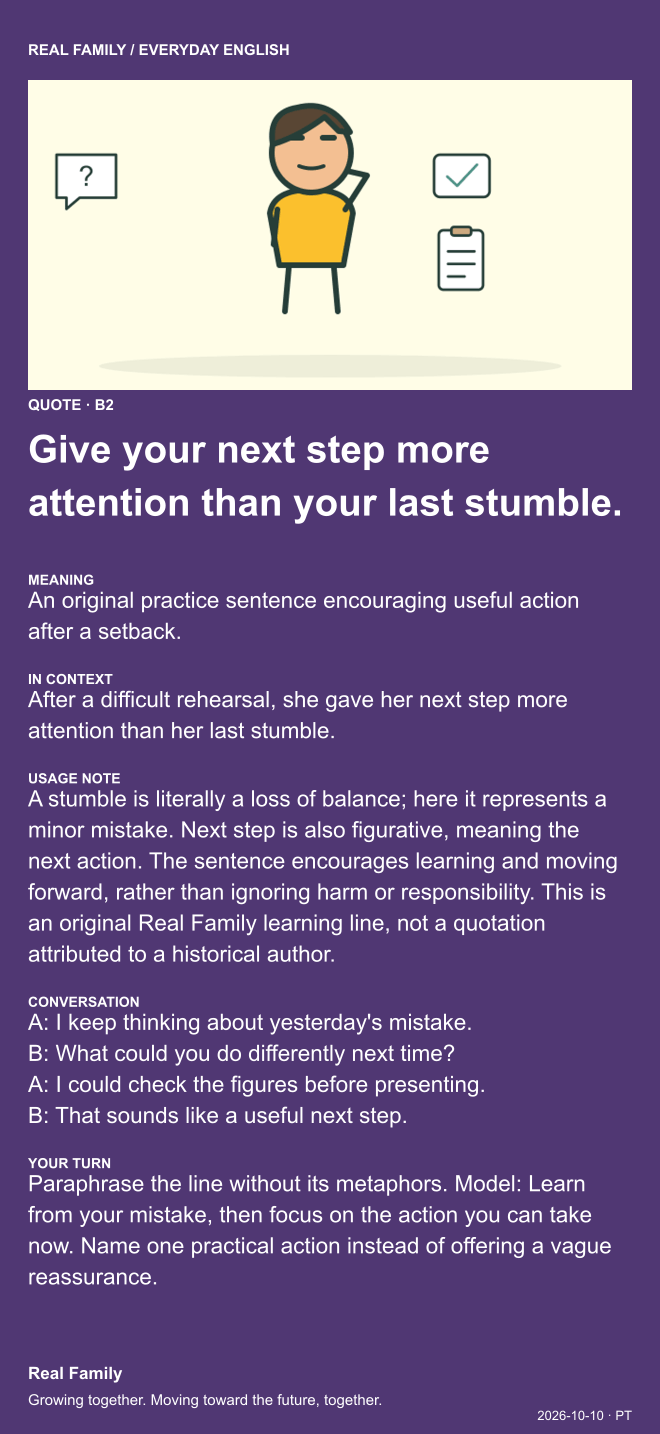
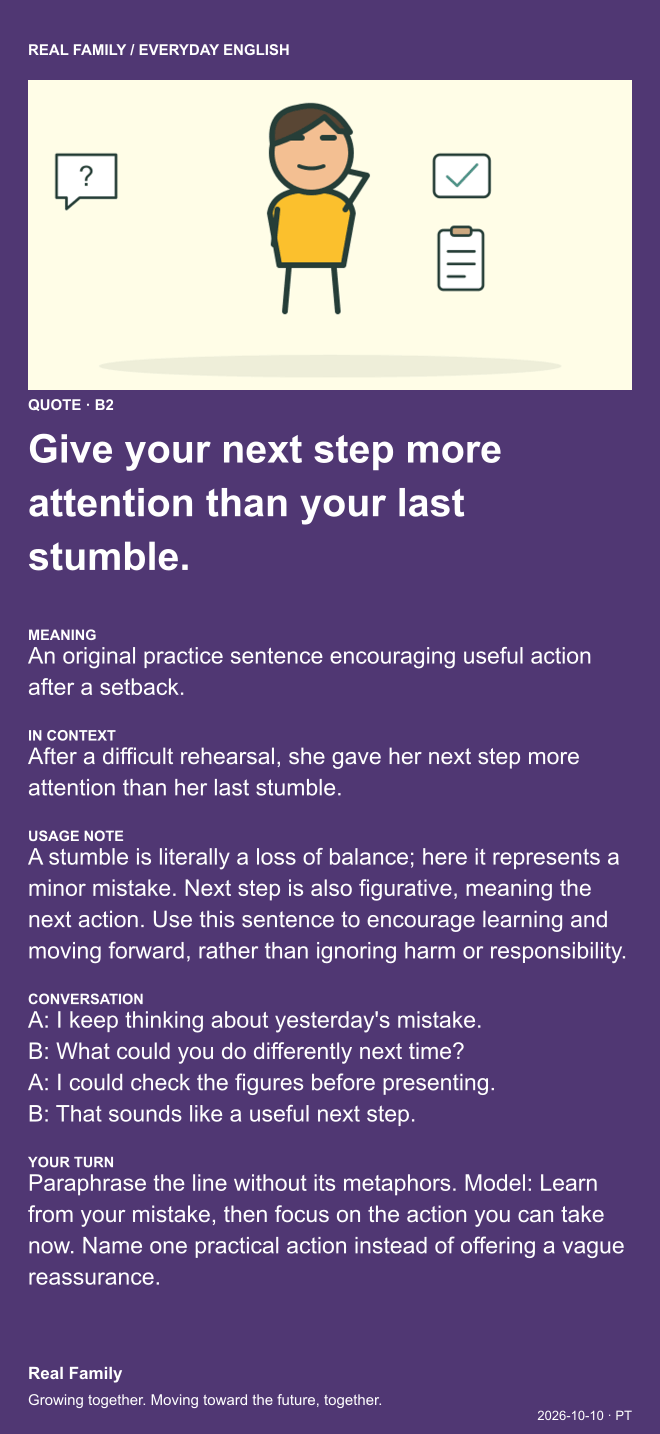
Update Quote language notes and matching card images

Changed region(s): [[0.0303, 0.3068, 0.9394, 0.9205]]

diff --git a/realfamily/app.js b/realfamily/app.js
@@ -11,7 +11,7 @@ function news(){return pageHead('THE DAILY PERSPECTIVE','A world worth understan
 function markets(){return pageHead('THE MARKET NOTEBOOK','The world, at the close.','Major equity benchmarks. Local sessions. A clear view of what comes next.')+`<div class="notice">For reference only. Not investment advice. Historical signals describe scenarios, not reliable predictions of tomorrow’s prices.</div><p class="fine">Markets with comparable 2025 country capitalization data are sorted from highest to lowest in USD. Source: ${sourceLink('World Bank / WFE','https://data.worldbank.org/indicator/CM.MKT.LCAP.CD')}, reported domestic listed-company market capitalization. Provider coverage and treatment of multiple listings can affect comparisons. France, United Kingdom and Taiwan lack a comparable 2025 value in this dataset and are shown afterward without a rank. Hong Kong is a separate market. This is a ranking within the displayed markets, not a claim of exhaustive global coverage.</p><p class="fine">Data checked: ${dateLabel(DATA.marketUpdated)} · Source: Google Finance public quote pages · Quotes may be delayed. Session dates below use each exchange’s timezone.</p>${rankedMarkets().map((m,i)=>`<details class="card market-card" ${i===0?'open':''}><summary><span>${m[0]} ${marketBadge(m)}<small class="cap-label">${marketCapLabel(m[0])}</small></span><small>Regular close ${m[2]} · ${m[1]} · ${m[3]} ＋</small></summary><div class="market-content"><div class="table-wrap"><table><thead><tr><th>Benchmark</th><th>Latest quote / close</th><th>Change</th><th>Local session / status</th></tr></thead><tbody>${m[4].map(ix=>{const q=DATA.markets[ix[1]];return `<tr><td>${sourceLink(ix[0],q?.source||`https://www.google.com/finance/?q=${encodeURIComponent(ix[0])}` )}</td><td>${q?.close!=null?Number(q.close).toLocaleString('en-US',{maximumFractionDigits:2}):'Unavailable'}</td><td class="${q?.change>=0?'positive':'negative'}">${q?.change!=null?(q.change>=0?'+':'')+q.change.toFixed(2)+'%':'—'}</td><td>${q?escapeHTML(q.session)+' · Local market date ('+escapeHTML(q.timezone)+') · '+escapeHTML(q.state)+' · '+escapeHTML(q.marketStatus)+'<br><span class="fine">Quote time: '+escapeHTML(q.quoteAt||q.session)+' · Local exchange time</span><br><span class="fine">Updated '+dateLabel(q.updated)+'</span>'+(DATA.status[ix[1]]?.ok===false?'<br><span class="fine">Latest Google Finance fetch unavailable; earlier Google data retained.</span>':''):'No verified data'}</td></tr><tr><td colspan="4"><div class="analysis"><strong>${ix[0]} · Technical observation</strong><br>${q?.marketStatus==='Closed'&&q?.analysisReady&&q?.analysis?escapeHTML(q.analysis):escapeHTML(q?.marketStatus&&q.marketStatus!=='Closed'&&q.marketStatus!=='Status unavailable'?'This market has not closed yet.':q?.analysisStatus||'Analysis is withheld until the next scheduled update after a verified close.')} ${q?.analysisEligibleAt&&!q.analysisReady&&q.marketStatus==='Closed'?'<span class="fine">Next eligible update: '+dateLabel(q.analysisEligibleAt)+'</span>':''}<details><summary>Top 10 constituents by traded value</summary><p>No verified constituent-level turnover feed is connected. Price × volume is only an estimate, and an index itself has no cash turnover. This ranking will remain unavailable until complete constituent coverage and actual traded-value data are verified.</p></details></div></td></tr>`}).join('')}</tbody></table></div><p class="fine">Analysis is released at the first scheduled three-hour update after the verified exchange close, once the matching session data is available. Regular close excludes early-close days, holidays and auctions. An incomplete daily bar is labelled provisional; next-session observations apply to the next trading session, not necessarily the next calendar day.</p></div></details>`).join('')}` }
 function health(){return pageHead('CARE FOR EVERY CHAPTER','Live well, at every age.','Ten life-stage profiles. Nutrition priorities, practical supplements, and measurable movement goals.')+archivePicker('health')+`<div class="notice">Daily nutrient targets below include food, fortified foods and supplements combined; they are not automatic pill doses. These U.S. reference values concern generally healthy people. Pregnancy, illness and medications may change needs. Alcohol is not recommended as a health strategy.</div><p class="fine">Sex differences are shown where supported, especially iron and calcium. Infant and prepubertal feeding and exercise targets are generally shared; growth charts differ by sex. Menstrual and reproductive circumstances matter more than a label alone. Reviewed October 7, 2026 · PT.</p><div class="health-profiles">${(HEALTH_EDITION?.profiles||HEALTH_PROFILES).map(p=>`<section class="card health-profile"><p class="eyebrow">${p.stage} · ${p.sex}</p><h2>${p.stage} · ${p.sex}</h2><p class="fine">${p.age}</p><p class="health-focus">${escapeHTML(p.focus)}</p>${[['Food & nutrition',p.food],['Vitamins & supplements',p.supplements],['Movement · how much?',p.move]].map(([title,rows])=>`<h3>${title}</h3><ul>${rows.map(t=>`<li>${escapeHTML(t)}</li>`).join('')}</ul>`).join('')}</section>`).join('')}</div><p class="fine">Verified foundations: ${[['NIH calcium','https://ods.od.nih.gov/factsheets/Calcium-Consumer/'],['NIH iron','https://ods.od.nih.gov/factsheets/Iron-Consumer/'],['NIH vitamin D','https://ods.od.nih.gov/factsheets/VitaminD-Consumer/'],['NIH folate','https://ods.od.nih.gov/factsheets/Folate-Consumer/'],['NIH B12','https://ods.od.nih.gov/factsheets/VitaminB12-Consumer/'],['WHO activity','https://www.who.int/news-room/fact-sheets/detail/physical-activity'],['WHO under-5 activity','https://www.who.int/publications/i/item/9789241550536'],['WHO growth charts','https://www.who.int/tools/child-growth-standards/standards/weight-for-age'],['CDC infant vitamin D','https://www.cdc.gov/breastfeeding-special-circumstances/hcp/diet-micronutrients/vitamin-d.html'],['CDC child activity','https://www.cdc.gov/physical-activity-basics/guidelines/children.html']].map(([n,u])=>sourceLink(n,u)).join(' · ')}</p><section class="section-spaced"><div class="section-line"><h2>From the research desk</h2><span class="fine">A growing research archive</span></div><p class="fine">Last search: ${dateLabel(HEALTH_EDITION?.researchChecked||DATA.researchChecked||DATA.researchUpdated)} · Last new additions: ${dateLabel(HEALTH_EDITION?.researchUpdated||DATA.researchUpdated)}. New unique publications are appended daily; if none are found, previous records stay available. Discovery dates use PT; publication dates belong to the journal record. These are research leads, not reviewed clinical recommendations.</p><label class="edition-picker">Find research additions by date · PT<input type="date" id="research-date" value="${researchDate==='All'?'':researchDate}"></label><button class="listen" data-action="research-all">Show all research additions</button><div class="news-grid">${healthResearch().filter(r=>r.visible!==false).filter(r=>researchDate==='All'||r.discoveredDate===researchDate).map(r=>`<article class="card"><span class="eyebrow">${escapeHTML(r.type||'Research')}</span><h3>${sourceLink(r.title,r.url)}</h3><p class="fine">${escapeHTML(r.journal)} · Publication: ${escapeHTML(r.date)} · Added ${escapeHTML(r.discoveredDate||'Legacy entry')} · PT</p>${r.abstractExcerpt?`<p class="research-excerpt"><strong>Abstract excerpt</strong><br>${escapeHTML(r.abstractExcerpt)}</p>`:''}<p class="fine">${escapeHTML(r.population||'Population and study limitations require full-text review')}</p></article>`).join('')||'<p class="empty">No new additions for this date.</p>'}</div></section>`}
 function recipes(){const catalog=KITCHEN_EDITION?.recipes||DATA.kitchen?.recipes||FAMILY_RECIPES;const featured=KITCHEN_EDITION?.recipeIndices||DATA.kitchen?.recipeIndices||DATA.daily?.recipeIndices||[];const items=catalog.filter(r=>(cuisine==='All'||r.cuisine===cuisine)&&(meal==='All'||r.meal===meal));return pageHead('AT THE FAMILY TABLE','A taste of somewhere new.','Thoughtfully prepared meals and treats, with generous portions for six.')+archivePicker('recipes')+chips(['All','Main','Snack'],meal,'meal')+chips(['All',...CUISINES],cuisine,'cuisine')+`<p class="fine">${items.length} recipes · Each daily edition: 10 themes × 2 new dishes · All recipes serve 6 · Ingredient weights refer to edible portions unless stated · 1 tbsp = 15 mL; 1 tsp = 5 mL</p><div class="grid recipe-grid">${items.map(r=>`<article class="card recipe-card">${r.photo?`<figure class="recipe-photo"><img src="${escapeHTML(r.photo.url)}" alt="${escapeHTML(r.photo.alt)}" loading="lazy"><figcaption>Illustrative photo · ${sourceLink(r.photo.author,r.photo.source)} · ${sourceLink(r.photo.license,r.photo.licenseUrl)}</figcaption></figure>`:''}<p class="tags">${featured.includes(catalog.indexOf(r))?((KITCHEN_EDITION||DATA.kitchen)?.generation?.kind==='new-daily-recipes'?'NEW EDITION · ':'DAILY PICK · '):''}${r.cuisine.toUpperCase()} · ${r.meal.toUpperCase()}</p><h3>${escapeHTML(r.title)}</h3><p class="recipe-meta"><strong>Serves 6</strong> · Prep ${r.prep} min · Cook ${r.cook} min</p><details><summary>Ingredients & step-by-step method</summary><h4>Ingredients · 6 servings</h4><ul class="ingredients">${r.ingredients.map(x=>`<li><span>${escapeHTML(x.name)}</span><strong>${escapeHTML(x.amount)}</strong></li>`).join('')}</ul><h4>Method</h4><ol class="method">${r.steps.map(x=>`<li>${escapeHTML(x)}</li>`).join('')}</ol><p class="recipe-tip"><strong>Kitchen note</strong><br>${escapeHTML(r.note)}</p><p class="fine">Allergens: ${escapeHTML(r.allergens)}. Check every product label.</p>${r.storage?`<p class="recipe-tip"><strong>Storage & leftovers</strong><br>${escapeHTML(r.storage)}</p>`:''}<div class="recipe-video"><h4>Learn by watching</h4>${r.video?sourceLink('▶ Watch a similar recipe on YouTube',r.video):''}<br>${sourceLink('Find more video tutorials on YouTube',r.videoSearch)}<p class="fine">External demonstrations may use different ingredients and serving sizes. Follow the six-serving quantities above for this recipe.</p></div></details></article>`).join('')}</div><p class="fine section-spaced">Food safety: wash produce, prevent cross-contamination, and refrigerate perishable leftovers promptly. Cook poultry to 165°F / 74°C and fish to 145°F / 63°C. ${sourceLink('USDA safe temperatures','https://www.fsis.usda.gov/food-safety/safe-food-handling-and-preparation/food-safety-basics/safe-temperature-chart')}</p>`}
-function english(){if(!currentEdition()?.lessons?.length)return pageHead('A LITTLE ENGLISH, EVERY DAY','Find the words for your world.','B2–C2 English: precise vocabulary, nuanced expression, and confident conversation.')+'<p class="notice" role="status">Loading the daily lesson archive. Please refresh if the cards do not appear.</p>';const lessons=activeLessons();return pageHead('A LITTLE ENGLISH, EVERY DAY','Find the words for your world.','B2–C2 English: precise vocabulary, nuanced expression, and confident conversation.')+`<p class="fine">Daily edition: ${escapeHTML(currentEdition()?.date||'Loading')} · PT. Ten new topics per edition, with a growing permanent archive. Previous topics are checked before publishing; older editions retain their original date.</p>`+dateBrowser('english')+`<div class="edition-download"><button type="button" class="button" data-download-all>↓ Download all 10 cards</button><p class="fine">One ZIP file · All ten original PNG cards for the selected date, including every category.</p><p id="bulk-card-status" class="fine" role="status" aria-live="polite"></p></div>`+chips(['All',...LESSONS.map(l=>l.category)],lessonCategory,'lesson')+`<p id="card-status" class="fine" role="status" aria-live="polite"></p><div class="lesson-grid">${lessons.filter(l=>lessonCategory==='All'||l.category===lessonCategory).map(l=>`<article class="lesson ${l.color}">${currentLanguage==='en'?`<img class="lesson-poster" src="data/english-images/${currentEdition()?.date}/${encodeURIComponent(cardFilename(l))}?revision=${currentEdition()?.revision||1}" alt="${escapeHTML(l.title)} — complete English learning card, portrait screen proportions" loading="lazy">`:`<img class="lesson-illustration" src="${l.illustration}" alt="${escapeHTML(l.title)} illustration" loading="lazy">`}<div class="lesson-body"><p class="eyebrow">${l.category} · ${escapeHTML(l.level||'B2–C1')}</p><div class="card-actions"><button class="listen" data-action="speak" data-value="${escapeHTML(l.title)}">▷ Listen</button><button class="listen" data-action="speak-conversation" data-value="${l.id}" aria-label="Listen to the conversation for ${escapeHTML(l.title)}" aria-pressed="false">▷ Listen to conversation</button><button class="listen" data-action="share-card" data-value="${l.id}" aria-label="Share ${escapeHTML(l.category)} card">↗ Share</button><button class="listen" data-action="save-card" data-value="${l.id}" aria-label="Save ${escapeHTML(l.category)} card as an image">↓ Save image</button></div>${currentLanguage!=='en'?`<div class="translated-lesson"><h3>${escapeHTML(l.title)}</h3><p class="definition">${escapeHTML(l.meaning)}</p><p>${escapeHTML(l.example)}</p><p>${escapeHTML(l.notes)}</p><p>${escapeHTML(l.conversation).replace(/\n/g,'<br>')}</p><p><strong>${escapeHTML(l.exercise)}</strong></p></div>`:''}</div></article>`).join('')}</div><p class="fine section-spaced">Share a complete English PNG card through your device’s supported apps, or save it and attach it in a chat. Native image sharing depends on your browser and installed apps; when unavailable, Share downloads the image. Exported cards use the original English, including when the page is translated. Quote cards use original Real Family reflections.</p>`}
+function english(){if(!currentEdition()?.lessons?.length)return pageHead('A LITTLE ENGLISH, EVERY DAY','Find the words for your world.','B2–C2 English: precise vocabulary, nuanced expression, and confident conversation.')+'<p class="notice" role="status">Loading the daily lesson archive. Please refresh if the cards do not appear.</p>';const lessons=activeLessons();return pageHead('A LITTLE ENGLISH, EVERY DAY','Find the words for your world.','B2–C2 English: precise vocabulary, nuanced expression, and confident conversation.')+`<p class="fine">Daily edition: ${escapeHTML(currentEdition()?.date||'Loading')} · PT. Ten new topics per edition, with a growing permanent archive. Previous topics are checked before publishing; older editions retain their original date.</p>`+dateBrowser('english')+`<div class="edition-download"><button type="button" class="button" data-download-all>↓ Download all 10 cards</button><p class="fine">One ZIP file · All ten original PNG cards for the selected date, including every category.</p><p id="bulk-card-status" class="fine" role="status" aria-live="polite"></p></div>`+chips(['All',...LESSONS.map(l=>l.category)],lessonCategory,'lesson')+`<p id="card-status" class="fine" role="status" aria-live="polite"></p><div class="lesson-grid">${lessons.filter(l=>lessonCategory==='All'||l.category===lessonCategory).map(l=>`<article class="lesson ${l.color}">${currentLanguage==='en'?`<img class="lesson-poster" src="data/english-images/${currentEdition()?.date}/${encodeURIComponent(cardFilename(l))}?revision=${currentEdition()?.revision||1}" alt="${escapeHTML(l.title)} — complete English learning card, portrait screen proportions" loading="lazy">`:`<img class="lesson-illustration" src="${l.illustration}" alt="${escapeHTML(l.title)} illustration" loading="lazy">`}<div class="lesson-body"><p class="eyebrow">${l.category} · ${escapeHTML(l.level||'B2–C1')}</p><div class="card-actions"><button class="listen" data-action="speak" data-value="${escapeHTML(l.title)}">▷ Listen</button><button class="listen" data-action="speak-conversation" data-value="${l.id}" aria-label="Listen to the conversation for ${escapeHTML(l.title)}" aria-pressed="false">▷ Listen to conversation</button><button class="listen" data-action="share-card" data-value="${l.id}" aria-label="Share ${escapeHTML(l.category)} card">↗ Share</button><button class="listen" data-action="save-card" data-value="${l.id}" aria-label="Save ${escapeHTML(l.category)} card as an image">↓ Save image</button></div>${currentLanguage!=='en'?`<div class="translated-lesson"><h3>${escapeHTML(l.title)}</h3><p class="definition">${escapeHTML(l.meaning)}</p><p>${escapeHTML(l.example)}</p><p>${escapeHTML(l.notes)}</p><p>${escapeHTML(l.conversation).replace(/\n/g,'<br>')}</p><p><strong>${escapeHTML(l.exercise)}</strong></p></div>`:''}</div></article>`).join('')}</div><p class="fine section-spaced">Share a complete English PNG card through your device’s supported apps, or save it and attach it in a chat. Native image sharing depends on your browser and installed apps; when unavailable, Share downloads the image. Exported cards use the original English, including when the page is translated. Quote cards use original reflections for language practice.</p>`}
 
 let activeAudioButton=null;
 function playLessonAudio(text,button){

diff --git a/realfamily/scripts/generate_english.py b/realfamily/scripts/generate_english.py
@@ -70,7 +70,7 @@ CRITICAL SCHEMA: image is ONLY a category STRING: "vocabulary", "phrasal", "idio
 The two phrasal lessons MUST teach verb + particle constructions (for example a verb followed by up/out/off), not a single verb or noun. The grammar lesson MUST teach an advanced grammatical contrast with a correct rule, not vocabulary. Match each title to its declared category. C2 lessons require real pragmatic or semantic distinctions in notes and exercises. Do not reuse a familiar saying as an original quote.
 Counts: vocabulary 2, phrasal 2, idiom 2, life 1, grammar 1, quote 1, small-talk 1. Levels B2 4, C1 4, C2 2.
 Teach native-like collocations and pragmatic nuance. C2 must teach register, implied meaning or precise semantic contrasts, not relabel basic material.
-Quote must be ORIGINAL, no author attribution. Each lesson 110-170 words total, maximum 190; title under 55 characters. All have a clear definition, natural example, specific usage warning, 4 alternating A:/B: dialogue lines, and a concrete exercise with a short model answer. Small-talk has SIX alternating A:/B: lines, with follow-up questions and natural replies. Use actual newline characters in conversation.
+Quote must be ORIGINAL, no author attribution. Quote usage notes must explain metaphor, register, context or pragmatic meaning only; never mention Real Family, our brand, authorship, or promotional claims. Each lesson 110-170 words total, maximum 190; title under 55 characters. All have a clear definition, natural example, specific usage warning, 4 alternating A:/B: dialogue lines, and a concrete exercise with a short model answer. Small-talk has SIX alternating A:/B: lines, with follow-up questions and natural replies. Use actual newline characters in conversation.
 Avoid repeated titles, synonyms with the same teaching point, paraphrases of past meanings, and repeated grammar rules. Use the complete past curriculum below as excluded teaching points.
 scene describes a simple flat 2D comic that clearly demonstrates THIS meaning, NOT its category. No generic category pictures. Return background (#hex), description (what visual event explains the lesson), characters (1-3), props (0-5).
 characters: x (140..500), y (65..105), scale (0.85,1,1.15), shirt (#hex), flip (boolean), face (happy,skeptical,worried,calm,neutral,curious,determined), pose (up,reach,cross,think,point,down).

diff --git a/realfamily/scripts/release_english.py b/realfamily/scripts/release_english.py
@@ -10,6 +10,7 @@ def validate(root,edition):
  assert len({l['id'] for l in lessons})==10
  seen=set();pictures=set()
  for l in lessons:
+  if l['image']=='quote':assert 'real family' not in l.get('notes','').casefold(),'Quote usage notes must focus on language, without branding'
   if l['image']=='small-talk':
    turns=l['conversation'].replace('\\n','\n').splitlines();assert len(turns)>=6 and all(t.startswith(('A:','B:')[i%2]) for i,t in enumerate(turns)),'Small talk needs at least six alternating turns'
   if 'level' in l:assert l['level'] in {'B2','C1','C2'},'Invalid CEFR level'
